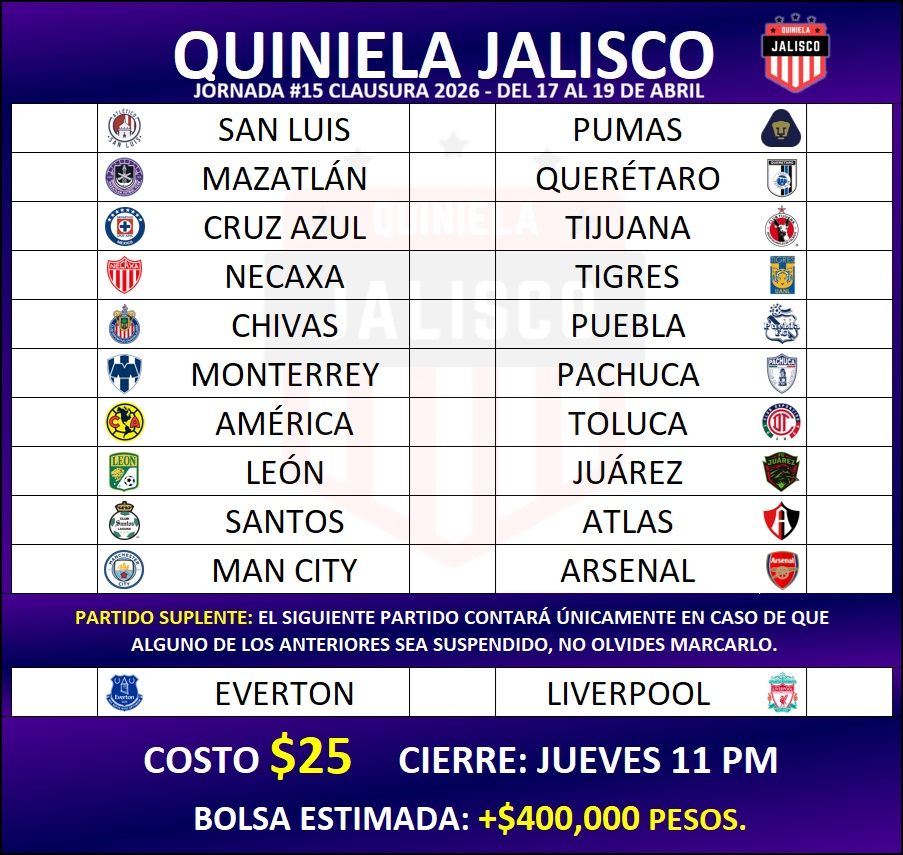
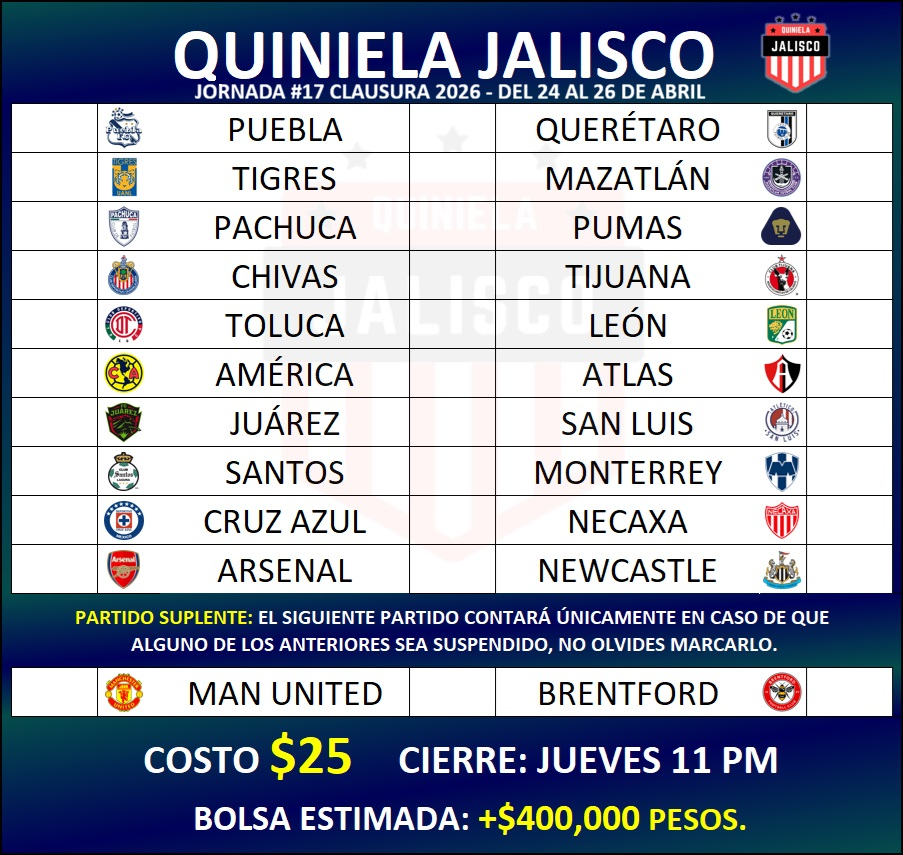
Jornada 17 C26

diff --git a/11/styles11.css b/11/styles11.css
@@ -95,8 +95,8 @@ body{
     margin-top: 8.5%;
     border-top: solid 1px black;
     border-radius: 0 0 14px 14px;
-    background: -webkit-linear-gradient(0.49turn, rgb(37,0,117) -7%, rgb(1,4,96) 80%);
-    background: linear-gradient(0.49turn, rgb(37,0,117) -7%, rgb(1,4,96) 80%);
+    background: -webkit-linear-gradient(0.49turn, rgb(2,40,80) -7%, rgb(1,4,96) 80%);
+    background: linear-gradient(0.49turn, rgb(2,40,80) -7%, rgb(1,4,96) 80%);
 }
 
 .text-lg{
